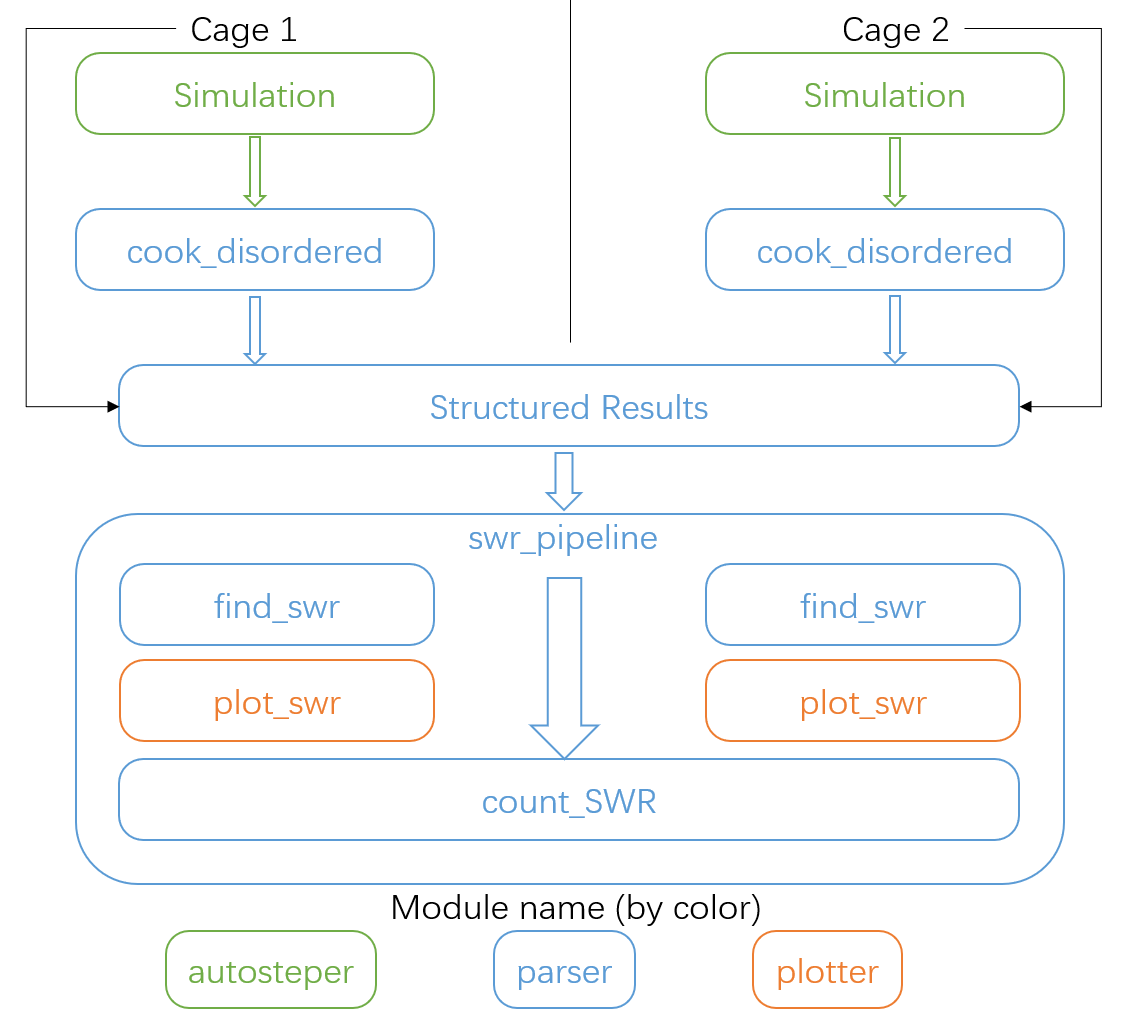
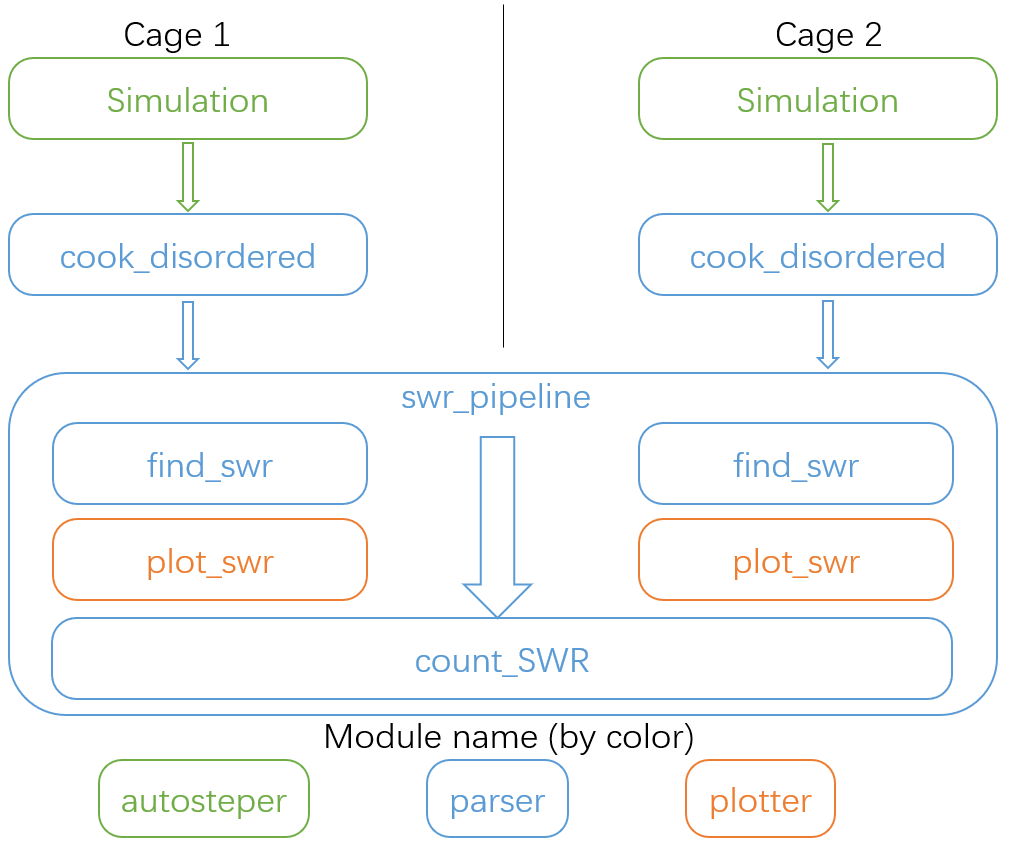
update

diff --git a/docs/manual/AnalysisFunctions.rst b/docs/manual/AnalysisFunctions.rst
@@ -407,7 +407,7 @@ That is:
 
 Note that, in the practical SWR search, there are much more tricky
 exceptions to be dealt with. Almost all of them came from **unexpected
-isomorphism problems.** Fig 8 presents two of the screened SWR results:
+isomorphism problems.** Fig 1 presents two of the screened SWR results:
 
 .. image:: ./fig/swr_problem.png
    :alt: swr_problem
@@ -417,7 +417,7 @@ isomorphism problems.** Fig 8 presents two of the screened SWR results:
 
    <center>
 
-Fig 8. Visualization of the isomorphism problem.
+Fig 1. Visualization of the isomorphism problem.
 
 .. raw:: html
 
@@ -447,16 +447,8 @@ This is the main SWR search program, it was designed as follows:
    visualization convenience.
 
 To applicate this program, the ``cook_disordered`` function is required
-to have structural information prepared. **And the simulation results
-should have identical carbon sequences with the pristine cages.** Since
-the swr sites search on cage level has been performed once (step 1), and
-results of step 1 will be applicated in step 2, and step 3. (A remap
-program will be developed later to address this problem)
-
-**It’s recommended** to save the pristine cage after growth simulation,
-in this way, one may not warry about sequence problem.
-
-After that, one may follow the script below:
+to have structural information prepared.After that, one may follow the
+script below:
 
 .. code:: python
 
@@ -476,7 +468,7 @@ Two of the parameters need to be taken carefully:
 -  ``is_low_e``: set true to enable an energy criterion
 -  ``is_unique``: set true to keep only one SWR product
 
-The SWR results are highly structured, see Fig 9:
+The SWR results are highly structured, see Fig 2:
 
 .. image:: ./fig/swr_folder_system.png
    :alt: swr_folder_system
@@ -486,7 +478,7 @@ The SWR results are highly structured, see Fig 9:
 
    <center>
 
-Fig 9. Folder system for SWR search results.
+Fig 2. Folder system for SWR search results.
 
 .. raw:: html
 
@@ -511,7 +503,7 @@ Count SWR
 As one may notice, the SWR search results are kind of tricky to follow.
 So, what can we do with this messy data?
 
-Well, let’s start with the sub-folders in Fig 9, one may notice that,
+Well, let’s start with the sub-folders in Fig 2, one may notice that,
 there are more than one SWR pairs detected from
 :math:`\rm ^{\#11}C_{84}Cl_{14}` and :math:`\rm ^{\#12}C_{84}Cl_{16}` (5
 in total). That is, 5 :math:`\rm ^{\#11}C_{84}Cl_{14}` lowest energy
@@ -551,7 +543,7 @@ it comes to the post-addition stage, this number went to zero.
 
    <center>
 
-Fig 10. Illustration of SWR counts.
+Fig 4. Illustration of SWR counts.
 
 .. raw:: html
 
@@ -562,7 +554,7 @@ Fig 10. Illustration of SWR counts.
 The recommended workflow
 ~~~~~~~~~~~~~~~~~~~~~~~~
 
-Here in Fig 11, we present the recommended workflow for SWR analysis.
+Here in Fig 5, we present the recommended workflow for SWR analysis.
 
 .. image:: ./fig/swr_workflow.png
    :alt: swr_workflow
@@ -572,7 +564,7 @@ Here in Fig 11, we present the recommended workflow for SWR analysis.
 
    <center>
 
-Fig 11. The recommended workflow for SWR analysis.
+Fig 5. The recommended workflow for SWR analysis.
 
 .. raw:: html
 
@@ -582,10 +574,7 @@ That is:
 
 1. Perform growth simulation on two pristine cages with AutoSteper.
 2. After refinement of simulation results, **re-generate** topological
-   linkage information with ``cook_disordered`` function. Note that, the
-   SWR search program requires the pristine cage. This is not part of
-   the simulation results. It needs to be added before going to the
-   pipeline. (This inconvenience will be addressed very soon.)
+   linkage information with ``cook_disordered`` function.
 3. Send structured results to the SWR pipeline to **find, plot, and
    count** SWR pairs.
 
@@ -682,7 +671,7 @@ This function is designed to strictly find relatives of a specific
 isomer. It implements the
 `subgraph_is_isomorphic <https://networkx.org/documentation/latest/reference/algorithms/generated/networkx.algorithms.isomorphism.GraphMatcher.subgraph_is_isomorphic.html#graphmatcher-subgraph-is-isomorphic>`__
 function to perform the isomorphism test and dump information in a png
-format (see Fig 12). The input parameters are basically the same as the
+format (see Fig 19). The input parameters are basically the same as the
 above function. The difference is that it needs a folder to dump
 information.
 
@@ -694,7 +683,7 @@ information.
 
    <center>
 
-Fig 12. Example of the dumped information. The red ‘x’ presents a
+Fig 1. Example of the dumped information. The red ‘x’ presents a
 relative, blue ‘+’ is a non-isomerphic one.
 
 .. raw:: html
@@ -720,9 +709,9 @@ Three parameters are required:
 -  ``ylim``: Optional parameter. For users who are interested to set an
    upper limit of the y-axis.
 
-Fig 13 presents a collected distribution of failed jobs, it was
-performed with :math:`\rm C_{60}Br_x` systems, 50 isomers for x = 3, 6,
-9, 12, 15, 18 are sampled with AutoSteper’s random mode.
+Fig 3 presents a collected distribution of failed jobs, it was performed
+with :math:`\rm C_{60}Br_x` systems, 50 isomers for x = 3, 6, 9, 12, 15,
+18 are sampled with AutoSteper’s random mode.
 
 .. image:: ./fig/C60_ih_Br.png
    :alt: C60Brx
@@ -732,7 +721,7 @@ performed with :math:`\rm C_{60}Br_x` systems, 50 isomers for x = 3, 6,
 
    <center>
 
-Fig 13. Distribution of failed jobs for a random simulation.
+Fig 4. Distribution of failed jobs for a random simulation.
 
 .. raw:: html
 

diff --git a/docs/manual/SimulationModules.rst b/docs/manual/SimulationModules.rst
@@ -371,6 +371,7 @@ simulation. Here are two tips for users to choose a suitable cutoff:
 
 For input format, please check the
 `example <https://github.com/Franklalalala/AutoSteper/tree/master/gym/simulation/cutoff>`__.
+
 Another application of this function is to extract low-energy isomers
 from an information pickle file, see
 `get_low_e_xyz.py <https://github.com/Franklalalala/AutoSteper/blob/master/gym/simulation/cutoff/get_low_e_xyz.py>`__.
@@ -415,7 +416,7 @@ Generator
 ---------
 
 AutoSteper builds molecules with simple geometry techniques considered.
-See Fig 10.
+See Fig x.
 
 .. image:: ./fig/build_unit.png
    :alt: build_unit
@@ -425,7 +426,7 @@ See Fig 10.
 
    <center>
 
-Fig 10. Visualization of modeling techniques.
+Fig x. Visualization of modeling techniques.
 
 .. raw:: html
 
@@ -558,7 +559,7 @@ The machine parameters tell the dpdispatcher **which cluster** to use
 and **how to contact**, while the resource parameter **assigns**
 computation resources to each job.
 
-The original workflow of the dpdispatcher is illustrated in Fig 11.
+The original workflow of the dpdispatcher is illustrated in Fig 10.
 
 .. image:: ./fig/dpdispatch_arch.png
    :alt: dpdispatch_arch
@@ -568,7 +569,7 @@ The original workflow of the dpdispatcher is illustrated in Fig 11.
 
    <center>
 
-Fig 11. Simplified workflow of dpdispatcher.
+Fig 10. Simplified workflow of dpdispatcher.
 
 .. raw:: html
 
@@ -585,7 +586,7 @@ line may put pressure on the cluster. And when something wrong happened
 in a single job, the whole batch would be undermined. (For example, no
 retrieval from remote.) Therefore, we proposed the ``sub_batch_size``
 parameter to perform job dispatch in a mini-batch style. An illustration
-of the modified dpdispatcher is presented in Fig 12.
+of the modified dpdispatcher is presented in Fig 11.
 
 .. image:: ./fig/sub_batch_arch.png
    :alt: sub_batch_arch
@@ -595,7 +596,7 @@ of the modified dpdispatcher is presented in Fig 12.
 
    <center>
 
-Fig 12. A top-down illustration of the modified dpdispatcher.
+Fig 11. A top-down illustration of the modified dpdispatcher.
 
 .. raw:: html
 
@@ -651,7 +652,7 @@ and for Cl atoms, it’s 1.32.
 
 With these parameters, if a carbon atom is within a 1.06+1.32(2.38)
 distance, we will decide they are bonded. However, the Cl-cage bond
-length distribution show that, the distance is around 1.8, see Fig 13.
+length distribution show that, the distance is around 1.8, see Fig x.
 Therefore, we turned down the skin value to 0.15. This will set a 2.08
 bond length limitation.
 
@@ -663,7 +664,7 @@ bond length limitation.
 
    <center>
 
-Fig 13. The distribution of Cl-Cage bond length.
+Fig x. The distribution of Cl-Cage bond length.
 
 .. raw:: html
 
@@ -695,7 +696,7 @@ are presented below.
 -  7: The inner intactness of at least one functional group
    (:math:`\rm OH, CF_3, CH_3`) is undermined.
 
-Here in Fig 14, we present examples:
+Here in Fig x, we present examples:
 
 .. image:: ./fig/failed_example.png
    :alt: failed_example
@@ -705,7 +706,7 @@ Here in Fig 14, we present examples:
 
    <center>
 
-Fig 14. Illustration of some of the failed types.
+Fig x. Illustration of some of the failed types.
 
 .. raw:: html
 
@@ -729,7 +730,7 @@ isomers probably contain local instability motifs, therefore their
 derivatives will unlikely to become stable ones since they still contain
 those instability motifs. This is a dual concept to the low-energy
 configuration space, which is treated as seeds to generate derivatives.
-See Fig 15.
+See Fig 13.
 
 AutoSteper collects two kinds of isomers into the blacklist.
 
@@ -745,7 +746,7 @@ AutoSteper collects two kinds of isomers into the blacklist.
 
    <center>
 
-Fig 15. Illustration of the high-energy configuration space.
+Fig 13. Illustration of the high-energy configuration space.
 
 .. raw:: html
 
@@ -756,7 +757,7 @@ through the blacklist at first. If a pattern contains any of the
 recorded patterns, it will be directly skipped.
 
 To control the influence of a high-energy pattern, AutoSteper provides a
-queue to store high-energy patterns. See Fig 16.
+queue to store high-energy patterns. See Fig 14.
 
 .. image:: ./fig/blk_list.png
    :alt: blk_list
@@ -766,7 +767,7 @@ queue to store high-energy patterns. See Fig 16.
 
    <center>
 
-Fig 16. Illustration of the queue maintained by AutoSteper.
+Fig 14. Illustration of the queue maintained by AutoSteper.
 
 .. raw:: html
 
@@ -813,7 +814,7 @@ The generated isomer (in ``atom`` class) would go through a single-point
 evaluation before dumping to a xyz format file. After the generation of
 all isomers, the low-energy ones will be selected and re-dumped into the
 ``post_pre_scan_raw`` folder. These isomers would undergo geometry
-optimization with optimizers. Fig 17 presents a working folder when the
+optimization with optimizers. Fig 15 presents a working folder when the
 pre-scan feature is enabled. It’s basically the same as the ``step``
 mode workbase.
 
@@ -825,7 +826,7 @@ mode workbase.
 
    <center>
 
-Fig 17. The workbase when the pre-scan feature enabled.
+Fig 15. The workbase when the pre-scan feature enabled.
 
 .. raw:: html
 
